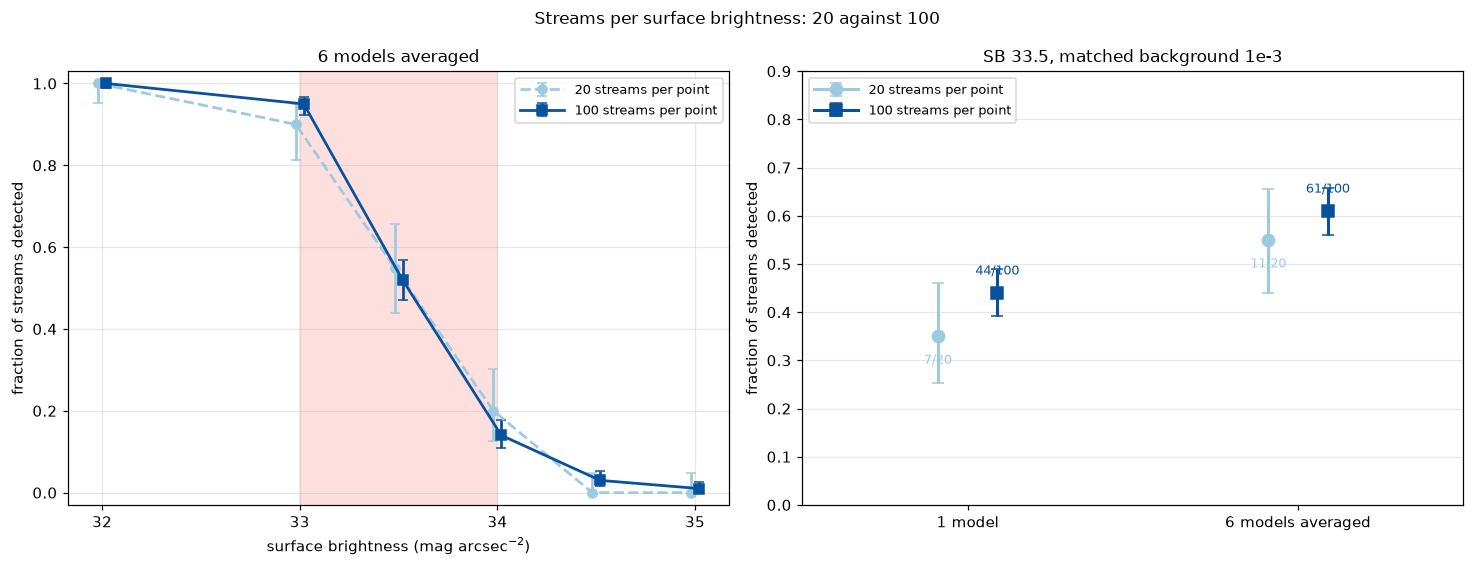
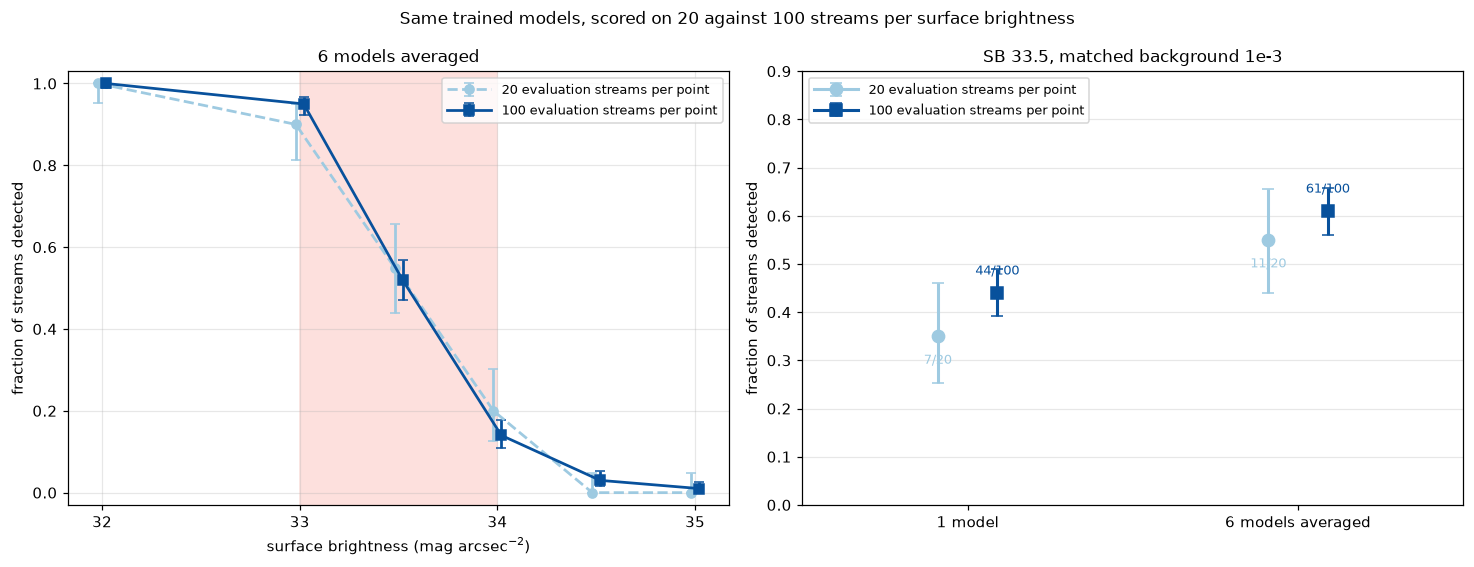
Separate evaluation sampling from what the models were trained on
"20 streams per point" describes how a trained model is scored, not what it
was trained on, and the page now says so where the number appears. Raising
it tightens the error bar on a measured performance and cannot change the
model.

For contrast the reading guide gives the training exposure in the same
units: a training window is one injected stream whose surface brightness is
drawn from the training range, so the ladder of 1200 to 19200 windows is
about 228 to 3648 distinct streams at each surface brightness value. Those
are the numbers that change the model.

Figure 7 and the shared protocol are relabelled in the same terms.

Changed region(s): [[0.2809, 0.0, 0.7178, 0.06], [0.5929, 0.1199, 0.749, 0.2399], [0.2809, 0.1199, 0.4057, 0.2399]]

diff --git a/scripts/experiments/hyperparameters/summary.py b/scripts/experiments/hyperparameters/summary.py
@@ -13,8 +13,9 @@ One figure per statement the page makes:
   6_matched_background.png  every model compared at the same background level,
                          since a fixed 0.5 threshold puts them at very
                          different operating points
-  7_sampling.png         20 against 100 streams per surface brightness, the
-                         sample size behind the ensemble curves
+  7_sampling.png         the same models scored on 20 against 100 streams per
+                         surface brightness -- evaluation precision, not a
+                         difference between models
 
 Two different uncertainties appear here, drawn differently:
 
@@ -435,7 +436,7 @@ def figure_sampling(results):
             color=colour,
             capsize=3,
             lw=1.8,
-            label=f"{n} streams per point",
+            label=f"{n} evaluation streams per point",
         )
     decorate(axes[0])
     legend(axes[0])
@@ -467,7 +468,7 @@ def figure_sampling(results):
                 capsize=4,
                 ms=8,
                 lw=2,
-                label=f"{n} streams per point" if size == 1 else None,
+                label=f"{n} evaluation streams per point" if size == 1 else None,
             )
             axes[1].annotate(
                 f"{k}/{n}",
@@ -486,7 +487,10 @@ def figure_sampling(results):
     axes[1].grid(alpha=0.3, axis="y")
     legend(axes[1], loc="upper left")
     axes[1].set_title("SB 33.5, matched background 1e-3", fontsize=11)
-    fig.suptitle("Streams per surface brightness: 20 against 100", fontsize=11)
+    fig.suptitle(
+        "Same trained models, scored on 20 against 100 streams per surface brightness",
+        fontsize=11,
+    )
     fig.tight_layout()
     fig.savefig(FIGURES / "7_sampling.png", dpi=DPI, bbox_inches="tight")
     plt.close(fig)

diff --git a/scripts/experiments/hyperparameters/ensemble.py b/scripts/experiments/hyperparameters/ensemble.py
@@ -35,7 +35,13 @@ SEEDS = [42, 43, 44, 45, 46, 47]
 # 4 is the equal-cost comparison against one training on 4 x 4800 windows.
 ENSEMBLE_SIZES = [1, 2, 3, 4, 6]
 EVAL_SB = [32.0, 33.0, 33.5, 34.0, 34.5, 35.0]
-N_REALIZATIONS = 100  # one prediction per ensemble, so this is its whole sample
+# Streams injected PER surface brightness, so this many times the 6 entries of
+# EVAL_SB. An ensemble is one prediction with no seeds to pool over, unlike a
+# configuration curve (6 trainings x 20 = 120 per point), so this number alone
+# sets its sampling interval: +-11 points at 20, +-5 at 100, +-2 at 500. The
+# streams are simulated on demand and never seen in training, so the only limit
+# is time: about 0.45 s per stream for one model, 0.85 s for six averaged.
+N_REALIZATIONS = 500
 N_NULL_BANDS = 200
 EVAL_SEED = 2026
 INDEPENDENT_BACKGROUND_SEED = 777

diff --git a/docs/source/experiments/hyperparameters.md b/docs/source/experiments/hyperparameters.md
@@ -54,13 +54,34 @@ not put two models at the same false-alarm rate, so figure 6 redoes every
 comparison at matched background instead — and it changes some of the
 conclusions, which is why it is worth reading before acting on figures 1 to 3.
 
-**Streams per point.** Every count of injected streams on this page is **per
-surface brightness**, not a total. "20 streams" means 20 independently injected
-streams at SB 32, 20 more at SB 33, and so on over the six evaluation
-brightnesses — 120 injections for that model in total, but 20 behind each
+**Streams per point: an evaluation quantity, never a training one.** Every
+count of injected streams on this page — 20, 100, 500 — describes how a trained
+model was *scored*, and says nothing about what it was trained on. It is also
+**per surface brightness**, not a total: "20 streams" means 20 independently
+injected streams at SB 32, 20 more at SB 33, and so on over the six evaluation
+brightnesses, so 120 injections for that model in total but 20 behind each
 plotted point, which is what its error bar is computed from. Each one is a
-fresh full-sky injection: different stream realization, placement, orientation
-and survey noise.
+fresh full-sky injection — different stream realization, placement, orientation
+and survey noise — on a background catalog the model never saw.
+
+Raising that count makes the *measurement* of a model more precise. It cannot
+make the model better, and it is not what the training-length section varies.
+
+**How much the models actually saw in training**, for contrast: a training
+window is one injected stream, and its surface brightness is drawn uniformly
+from the training range's values, so a 4800-window model trained on SB 32-34.5
+saw about 912 distinct streams at each of the five values (4800 windows, 5% of
+them stream-free). The ladder in section 2 is:
+
+| Training windows | Streams per SB value in training |
+|---|---|
+| 1200 | ~228 |
+| 4800 | ~912 |
+| 9600 | ~1824 |
+| 19200 | ~3648 |
+
+Those are the numbers that change the model. The 20/100/500 above are the
+numbers that change the error bar on its measured performance.
 
 **Two different uncertainties**, which the figures draw differently:
 
@@ -360,20 +381,25 @@ longer trainings and the ensembles reach the numbers above. But the headline
 "training range doubles the SB 34 detections" is an operating-point effect,
 and should be reported as one.
 
-### 7. How many streams per point it takes to say any of this
+### 7. How many evaluation streams it takes to say any of this
 
-**Statement.** The ensembles were first scored on 20 streams per surface
-brightness, which was not enough to decide whether averaging survives the
-matched-background test; at 100 streams per point it is. The estimates barely
-moved — the extra streams bought precision, not a different answer.
+This section is about measurement precision, not about the models. Nothing is
+retrained here: the same trained ensembles are scored twice, on 20 and on 100
+injected streams per surface brightness.
+
+**Statement.** At 20 evaluation streams per point the ensembles were too
+imprecisely measured to decide whether averaging survives the
+matched-background test; at 100 they are. The estimates barely moved — the
+extra streams bought precision, not a different answer.
 
 ```{image} figures/hyperparameters/7_sampling.png
 :alt: The six-model ensemble scored on 20 and on 100 streams per surface brightness, and the single-model against six-model comparison at both sample sizes
 :width: 100%
 ```
 
-*Left: the same six-model ensemble, the same trained models, scored on 20 and
-on 100 streams per surface brightness, with Wilson 68% bars. The 20-stream
+*Left: the same six-model ensemble — identical weights in both curves — scored
+on 20 and on 100 evaluation streams per surface brightness, with Wilson 68%
+bars. The 20-stream
 realizations are the first 20 of the 100 — the realization seed is (base seed,
 surface-brightness index, realization index) — so this is a pure sample-size
 comparison, not two different experiments. Right: the comparison that motivated
@@ -388,9 +414,11 @@ sizes to within their bars everywhere, so nothing about the earlier figures was
 biased — they were simply too imprecise for that particular claim.
 
 The practical rule this suggests: a configuration curve pools several
-trainings, so 20 streams per point is enough for it; a single prediction — an
-ensemble, or a model you intend to deploy — needs about 100 per point before
-differences of 15 points mean anything.
+trainings, so 20 evaluation streams per point is enough for it; a single
+prediction — an ensemble, or a model you intend to deploy — needs about 100 per
+point before differences of 15 points mean anything. Evaluation streams are
+simulated on demand and cost about 0.5 to 0.9 s each, so this is a compute
+choice rather than a limitation of the data.
 
 ## What to use
 

diff --git a/docs/source/experiments/index.md b/docs/source/experiments/index.md
@@ -24,9 +24,13 @@ survey noise). Each sky is tiled, predicted, stitched back to HEALPix and
 scored per pixel. Differences between models therefore come from the models,
 not from the skies they were shown.
 
-**Realizations are counted per grid point.** `n_realizations` is the number of
-independent injections *per parameter set* — per surface brightness, or per
-cell when a grid varies two parameters — not a total. An experiment scoring 20
+**Realizations are counted per grid point, and they are an evaluation
+quantity.** `n_realizations` is the number of independent injections used to
+*score* a trained model, *per parameter set* — per surface brightness, or per
+cell when a grid varies two parameters — not a total, and never a description
+of what the model was trained on (that is counted in training windows). Raising
+it tightens the error bar on a model's measured performance; it cannot change
+the model. An experiment scoring 20
 realizations over 6 surface brightnesses injects 120 streams, with 20 behind
 each plotted point, and that 20 is what the point's error bar is computed from.
 The realization seed is (base seed, parameter-set index, realization index), so
